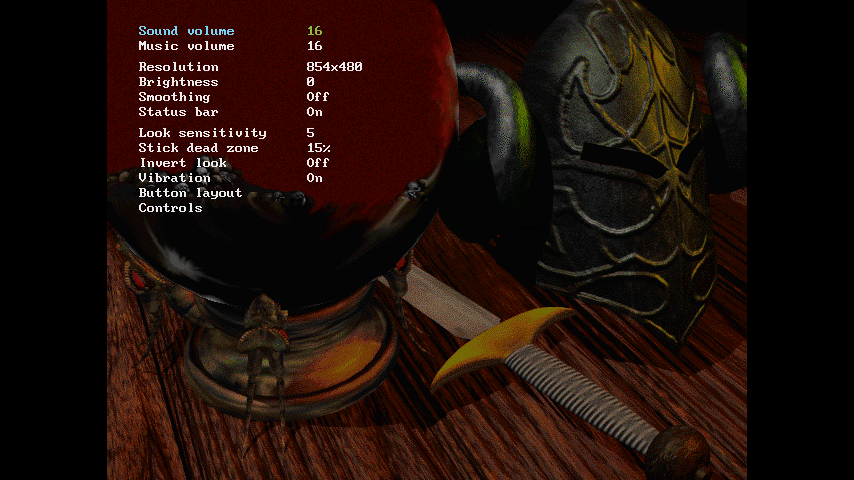
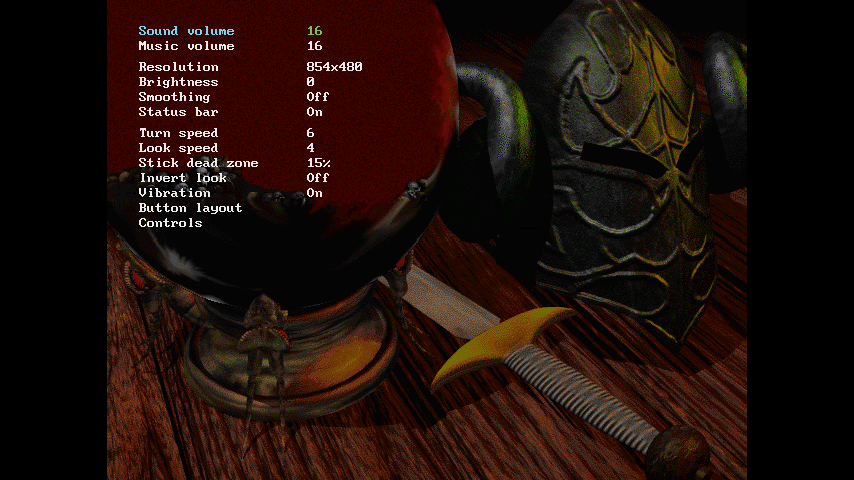
Witchaven 360 0.3.1: separate turn and look speeds, widescreen sky fix
Turn speed and Look speed settings in place of the single Look sensitivity (issue #1);
looking up and down in widescreen as far as in 4:3, so the sky no longer shows a band
at the top when looking straight up (issue #2).

Claude-Session: https://claude.ai/code/session_01HB9V1zXRhVF94XGowezUZY

Changed region(s): [[0.1522, 0.25, 0.3044, 0.4688], [0.3653, 0.2812, 0.3958, 0.4062]]

diff --git a/xenon/wh_pad.c b/xenon/wh_pad.c
@@ -130,8 +130,10 @@ static int layout_loaded = 0;
 static int invert_look = 0;
 // Settings > Vibration.
 static int vibration = 1;
-// Settings > Look sensitivity, 1 to 10: how fast the right stick turns and looks, 7 as the game had it.
-static int look_sensitivity = DEFAULT_LOOK_SENSITIVITY;
+// Settings > Turn speed and Look speed, 1 to 10: how fast the right stick turns, across, and looks up and down; 7 as the
+// game had it (as Heretic 360 has them).
+static int turn_speed = DEFAULT_TURN_SPEED;
+static int look_speed = DEFAULT_LOOK_SPEED;
 // Settings > Stick dead zone, 0 to 30 per cent of the sticks' travel, by 5s: how far they go before they move.
 static int dead_zone = DEFAULT_DEAD_ZONE;
 // Settings > Status bar (on, or off for the view to fill the screen; whaven.c), and Settings > Smoothing (0 off,
@@ -244,16 +246,28 @@ void wh360_rumble(int strength, int ms)
     StartRumble(strength, ms);
 }
 
-int xenon_pad_look_sensitivity(void)
+int xenon_pad_turn_speed(void)
 {
     if (!layout_loaded) xenon_pad_load_layout();
-    return look_sensitivity;
+    return turn_speed;
 }
 
-void xenon_pad_set_look_sensitivity(int value)
+void xenon_pad_set_turn_speed(int value)
 {
     if (!layout_loaded) xenon_pad_load_layout();
-    look_sensitivity = value < 1 ? 1 : value > 10 ? 10 : value;
+    turn_speed = value < 1 ? 1 : value > 10 ? 10 : value;
+}
+
+int xenon_pad_look_speed(void)
+{
+    if (!layout_loaded) xenon_pad_load_layout();
+    return look_speed;
+}
+
+void xenon_pad_set_look_speed(int value)
+{
+    if (!layout_loaded) xenon_pad_load_layout();
+    look_speed = value < 1 ? 1 : value > 10 ? 10 : value;
 }
 
 int xenon_pad_dead_zone(void)
@@ -308,7 +322,8 @@ void xenon_pad_load_layout(void)
     xenon_pad_reset_layout();
     invert_look = 0;
     vibration = 1;
-    look_sensitivity = DEFAULT_LOOK_SENSITIVITY;
+    turn_speed = DEFAULT_TURN_SPEED;
+    look_speed = DEFAULT_LOOK_SPEED;
     dead_zone = DEFAULT_DEAD_ZONE;
     status_bar = 1;
     smoothing = 0;
@@ -328,8 +343,12 @@ void xenon_pad_load_layout(void)
             vibration = strcmp(value, "off") != 0;
             continue;
         }
-        if (!strcmp(key, "looksensitivity")) {
-            xenon_pad_set_look_sensitivity(atoi(value));
+        if (!strcmp(key, "turnspeed")) {
+            xenon_pad_set_turn_speed(atoi(value));
+            continue;
+        }
+        if (!strcmp(key, "lookspeed")) {
+            xenon_pad_set_look_speed(atoi(value));
             continue;
         }
         if (!strcmp(key, "deadzone")) {
@@ -367,7 +386,8 @@ void xenon_pad_save_layout(void)
     for (i = 0; i < PAD_BUTTONS; i++) fprintf(f, "%s = %s\n", button_ids[i], action_ids[layout[i]]);
     fprintf(f, "invertlook = %s\n", invert_look ? "on" : "off");
     fprintf(f, "vibration = %s\n", vibration ? "on" : "off");
-    fprintf(f, "looksensitivity = %d\n", look_sensitivity);
+    fprintf(f, "turnspeed = %d\n", turn_speed);
+    fprintf(f, "lookspeed = %d\n", look_speed);
     fprintf(f, "deadzone = %d\n", dead_zone);
     fprintf(f, "statusbar = %s\n", status_bar ? "on" : "off");
     fprintf(f, "smoothing = %s\n", smoothing == 1 ? "smooth" : smoothing == 2 ? "sharp" : "off");
@@ -578,9 +598,9 @@ static int BackHeld(void)
 
 // A stick, from -32768 to 32767 each way, as the game takes it: nothing within the dead zone, all round (a circle,
 // not a square, so a diagonal isn't cut short); from its edge to full tilt, 0 to 32767. The right stick's 'curved',
-// the square of how far it's pushed, so a small push turns slowly and full tilt still turns fast, then times 'gain',
-// Settings > Look sensitivity's (0.4 to 1.3, 1 as the game had it).
-static void Stick(int x, int y, int curved, float gain, int *out_x, int *out_y)
+// the square of how far it's pushed, so a small push turns slowly and full tilt still turns fast, then across times
+// 'gain_x' and up and down times 'gain_y', Settings > Turn speed's and Look speed's (0.4 to 1.3, 1 as the game had it).
+static void Stick(int x, int y, int curved, float gain_x, float gain_y, int *out_x, int *out_y)
 {
     const float edge = (float)dead_zone * 32767.0f / 100.0f;
     const float fx = (float)x, fy = (float)y;
@@ -595,11 +615,9 @@ static void Stick(int x, int y, int curved, float gain, int *out_x, int *out_y)
     amount = (length - edge) / (32767.0f - edge);
     if (amount > 1.0f) amount = 1.0f;
     if (curved) amount *= amount;
-    amount *= gain;
-
     scale = amount * 32767.0f / length;
-    ox = fx * scale;
-    oy = fy * scale;
+    ox = fx * scale * gain_x;
+    oy = fy * scale * gain_y;
     *out_x = ox > 32767.0f ? 32767 : ox < -32767.0f ? -32767 : (int)ox;
     *out_y = oy > 32767.0f ? 32767 : oy < -32767.0f ? -32767 : (int)oy;
 }
@@ -628,10 +646,10 @@ static void GameControls(void)
     if (xenon_pad_connected() && !xenon_system_ui_open()) {
         // getinput takes them as they are (whinp.c): the dead zone and the right stick's curve and sensitivity are
         // here.
-        Stick(xenon_pad_axis(SDL_GAMEPAD_AXIS_LEFTX), xenon_pad_axis(SDL_GAMEPAD_AXIS_LEFTY), 0, 1.0f,
+        Stick(xenon_pad_axis(SDL_GAMEPAD_AXIS_LEFTX), xenon_pad_axis(SDL_GAMEPAD_AXIS_LEFTY), 0, 1.0f, 1.0f,
               &joyaxis[0], &joyaxis[1]);
         Stick(xenon_pad_axis(SDL_GAMEPAD_AXIS_RIGHTX), xenon_pad_axis(SDL_GAMEPAD_AXIS_RIGHTY), 1,
-              0.3f + 0.1f * (float)look_sensitivity, &joyaxis[2], &joyaxis[3]);
+              0.3f + 0.1f * (float)turn_speed, 0.3f + 0.1f * (float)look_speed, &joyaxis[2], &joyaxis[3]);
         if (invert_look) joyaxis[3] = -joyaxis[3];
     } else {
         joyaxis[0] = joyaxis[1] = joyaxis[2] = joyaxis[3] = 0;

diff --git a/src/whmenu.c b/src/whmenu.c
@@ -1898,9 +1898,10 @@ static const char *configitem_controller(enum configverb verb, int param) {
         else if (verb==draw) return xenon_pad_invert_look() ? "On" : "Off";
         return NULL;
     }
-    if (param == 5) {
-        // Look sensitivity, 1 to 10.
-        int v = xenon_pad_look_sensitivity();
+    if (param == 5 || param == 9) {
+        // Turn speed (5) and Look speed (9), 1 to 10: the right stick across and up and down.
+        int v = param == 5 ? xenon_pad_turn_speed() : xenon_pad_look_speed();
+        const int was = v;
         if (verb==draw) {
             static char text[8];
             snprintf(text, sizeof(text), "%d", v);
@@ -1908,8 +1909,9 @@ static const char *configitem_controller(enum configverb verb, int param) {
         }
         if (verb==increase || verb==activate) v = v >= 10 ? (verb==activate ? 1 : 10) : v + 1;
         else if (verb==decrease) v = v > 1 ? v - 1 : 1;
-        if (v != xenon_pad_look_sensitivity()) {
-            xenon_pad_set_look_sensitivity(v);
+        if (v != was) {
+            if (param == 5) xenon_pad_set_turn_speed(v);
+            else xenon_pad_set_look_speed(v);
             xenon_pad_save_layout();
         }
         return NULL;
@@ -2045,8 +2047,13 @@ void configmenu(void) {
         { .type = spacer },
         {
             .type = callback,
-            .label = "Look sensitivity",
+            .label = "Turn speed",
             .value = { .callback = { configitem_controller, 5 } }
+        },
+        {
+            .type = callback,
+            .label = "Look speed",
+            .value = { .callback = { configitem_controller, 9 } }
         },
         {
             .type = callback,

diff --git a/xenon/wh_pad.h b/xenon/wh_pad.h
@@ -34,12 +34,15 @@ void xenon_pad_set_vibration(int on);
 // A rumble of the controller: strength 0 to 100, for ms milliseconds. Only while playing and with vibration on; a
 // weaker or equal one doesn't restart or cut short one still going (the game asks again each tic of a swing).
 void wh360_rumble(int strength, int ms);
-// Settings > Look sensitivity (1 to 10, DEFAULT_LOOK_SENSITIVITY to start; 7 turns as the game did) and Settings > Stick
-// dead zone (0 to 30 per cent, by 5s), kept in controller.cfg.
-#define DEFAULT_LOOK_SENSITIVITY 5
+// Settings > Turn speed and Look speed (1 to 10; 7 turns and looks as the game did) and Settings > Stick dead zone
+// (0 to 30 per cent, by 5s), kept in controller.cfg.
+#define DEFAULT_TURN_SPEED 6
+#define DEFAULT_LOOK_SPEED 4
 #define DEFAULT_DEAD_ZONE 15
-int xenon_pad_look_sensitivity(void);
-void xenon_pad_set_look_sensitivity(int value);
+int xenon_pad_turn_speed(void);
+void xenon_pad_set_turn_speed(int value);
+int xenon_pad_look_speed(void);
+void xenon_pad_set_look_speed(int value);
 int xenon_pad_dead_zone(void);
 void xenon_pad_set_dead_zone(int percent);
 // Settings > Status bar (on, or off for a view filling the screen) and Settings > Smoothing (0 off, 1 smooth,

diff --git a/jfbuild/src/engine.c b/jfbuild/src/engine.c
@@ -5638,6 +5638,14 @@ void drawrooms(int daposx, int daposy, int daposz,
 	globalposx = daposx; globalposy = daposy; globalposz = daposz;
 	globalang = (daang&2047);
 
+#ifdef WITCHAVEN360
+	// Witchaven 360: in widescreen, looking up and down as far as on a 4:3 screen of the same height. Scaled by the
+	// wider view's width (xdimenscale), it went a third further, past the top of the sky's picture, which showed as a
+	// band across the top of the screen.
+	if (widescreen)
+		globalhoriz = mulscale16(dahoriz-100,scale(xdimenscale,ydim*4,xdim*3))+(ydimen>>1);
+	else
+#endif
 	globalhoriz = mulscale16(dahoriz-100,xdimenscale)+(ydimen>>1);
 	globaluclip = (0-globalhoriz)*xdimscale;
 	globaldclip = (ydimen-globalhoriz)*xdimscale;

diff --git a/README.md b/README.md
@@ -115,7 +115,8 @@ D-pad or left stick chooses, A selects, B closes. It isn't in the menus or Setti
 - Sound effects, and the music played on an emulated OPL3 chip, as on an AdLib or Sound Blaster card.
 - The opening film.
 - Settings, on Y at the main menu: the sound and music volumes, the resolution, brightness, smoothing, the status
-  bar, look sensitivity (with a gentler curve on the right stick), the sticks' dead zone, invert look, vibration, the
+  bar, turn speed and look speed (the right stick across and up and down, each with a gentler curve), the sticks' dead
+  zone, invert look, vibration, the
   button layout and a picture of the controls. The version is in the bottom right of the main menu.
 - Help pages on the controls with the controller's buttons, as the layout has them, in place of the PC's keys.
 - The map zooms with the D-pad; flying down to the ground lands; the Guide pauses the game and its music.
@@ -140,7 +141,7 @@ D-pad or left stick chooses, A selects, B closes. It isn't in the menus or Setti
     (written by its own thread once a second, so the game never waits on the drive to log a line) and start.
   - `wh_pad.c`: the controller turned into the keys and stick movement Witchaven reads, one layout in the game and
     another in the menus (it knows which by whether the game has read the controls in the last 200 ms); the button
-    layout, invert look, vibration, look sensitivity, the dead zone, the status bar and smoothing, kept in
+    layout, invert look, vibration, turn and look speed, the dead zone, the status bar and smoothing, kept in
     `controller.cfg`; quick save and load; the cheat menu's buttons.
   - `wh_menu360.c`: the Settings > Button layout and Settings > Controls pages, the Help pages on the controls, and
     the version on the main menu.
@@ -163,7 +164,8 @@ All under the `WITCHAVEN360` define.
   the BSDs', macOS's or Windows'.
 - `jfbuild/src/engine.c`: `loadtables` checks its sine and angle tables' checksums against the tables as a
   little-endian machine holds them, the 360 being big-endian; `buildsetlogfile` opens no second log (everything
-  printed is already in `witchaven.log`, and that one wrote to the drive a line at a time).
+  printed is already in `witchaven.log`, and that one wrote to the drive a line at a time); `drawrooms` looks up and
+  down in widescreen as far as on a 4:3 screen of the same height (a third further went past the top of the sky).
 - `src/whsndmod.c`: the tables of where each sound and song is in `joesnd` and `songs` are little-endian, as the PC
   wrote them, and are read so.
 - `jfaudiolib/src/assmisc.h`: the byte order from the compiler too, so the MIDI player reads the songs right.
@@ -189,6 +191,8 @@ All under the `WITCHAVEN360` define.
 
 ## Changes
 
+- **0.3.1:** separate Turn speed and Look speed settings in place of Look sensitivity; looking up and down in
+  widescreen as far as in 4:3, so the sky no longer shows a band at the top when looking straight up.
 - **0.3:** look sensitivity and dead-zone settings, with a gentler right stick; smoothing (off, smooth, sharp); the
   status bar can be turned off, with a small HUD; a developer cheat menu (LB + RB + Back); quick save and quick load
   (Back + D-pad up / down); the weapons sized to the view, so a swing's top stays on screen, and the widest pictures
